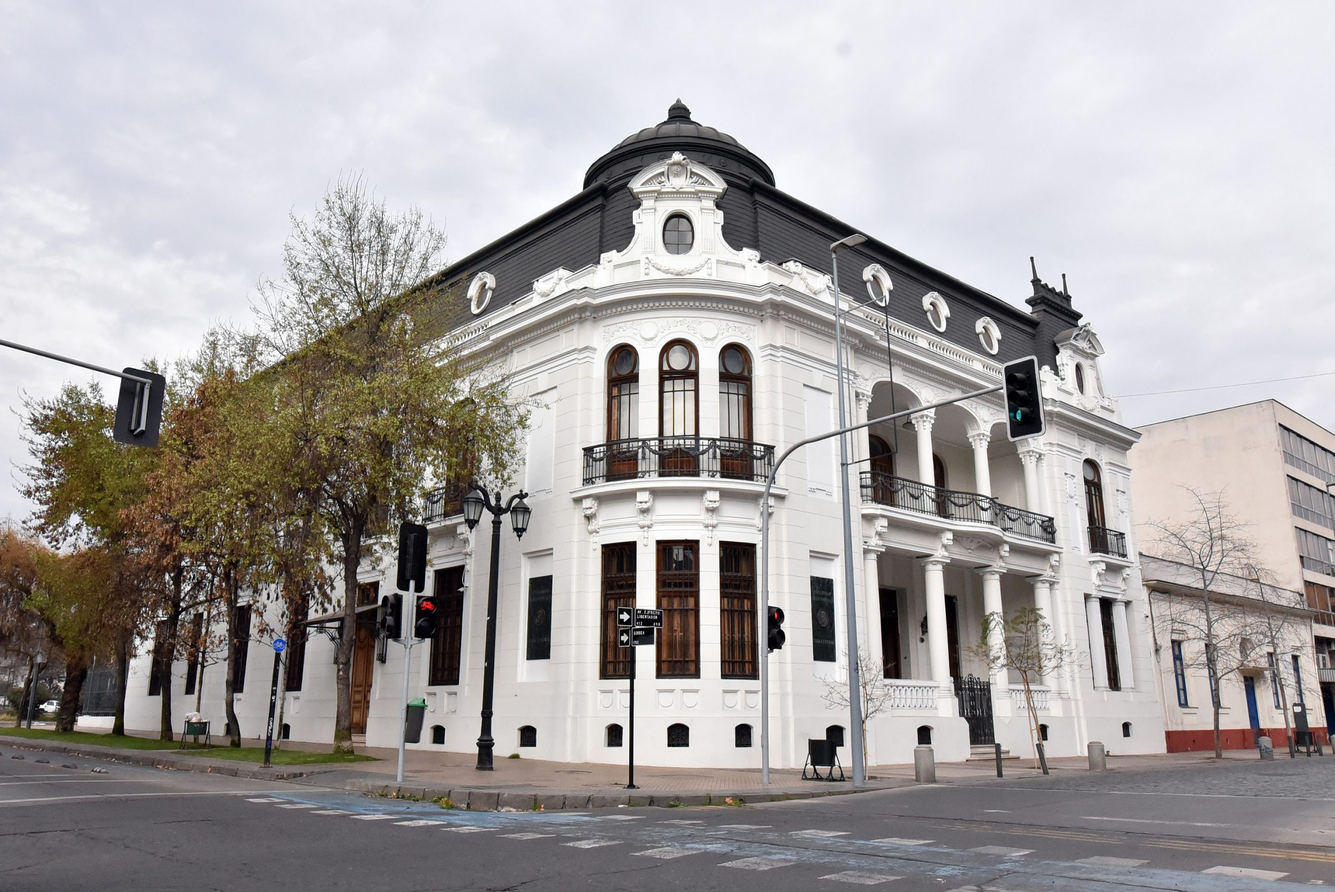
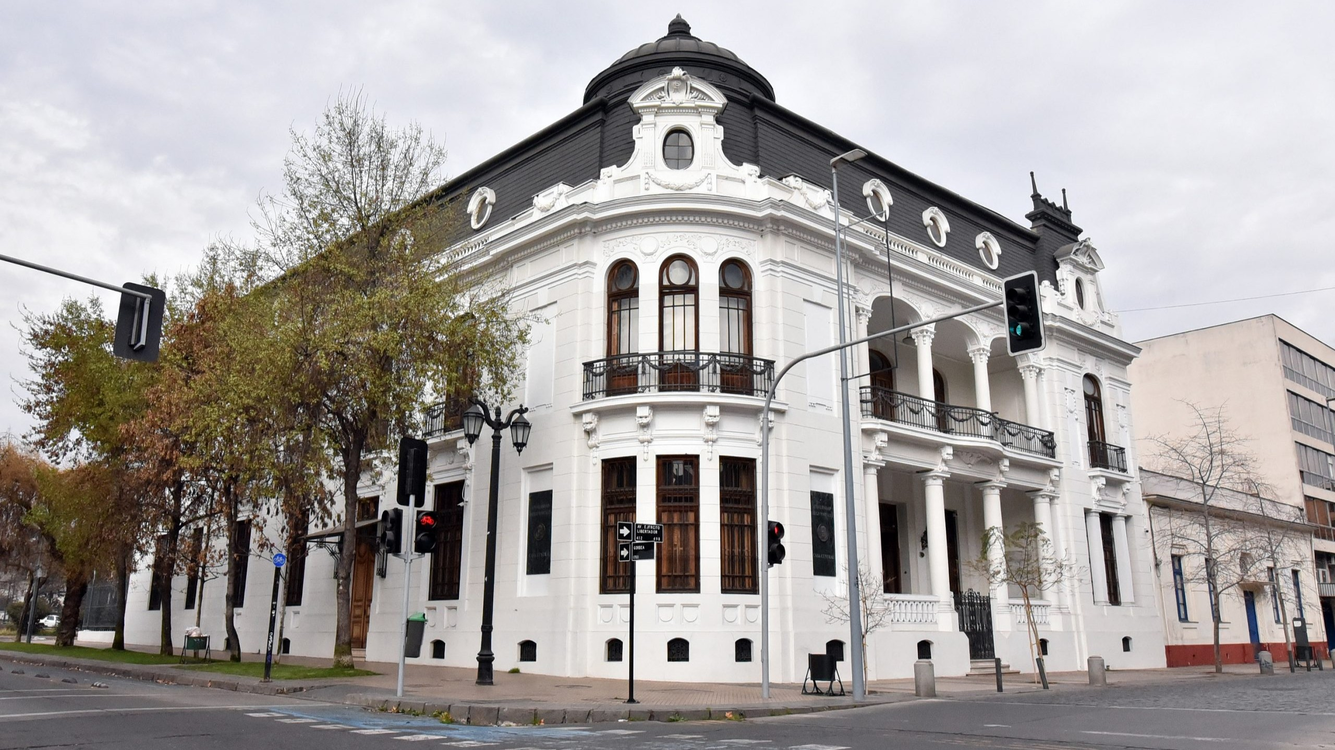
Add all UDP campus images as section dividers in 16:9 format
- Updated all images to 16:9 aspect ratio
- Added escaleras-biblioteca.jpg between Registration and Programme
- Added facultad-sociales.jpg between Programme and Venue
- Now all 5 section transitions have image dividers:
  1. biblioteca-udp (About → Theme)
  2. udp-casacentral (Theme → Call for Papers)
  3. udp-derecho (Call for Papers → Registration)
  4. escaleras-biblioteca (Registration → Programme)
  5. facultad-sociales (Programme → Venue)

🤖 Generated with [Claude Code](https://claude.com/claude-code)

diff --git a/index.html b/index.html
@@ -918,6 +918,10 @@
             </div>
         </section>
 
+        <div class="section-divider">
+            <img src="escaleras-biblioteca.jpg" alt="Escaleras Biblioteca UDP">
+        </div>
+
         <section id="programme">
             <h2 class="translate" data-en="Programme" data-es="Programa">Programme</h2>
 
@@ -935,6 +939,10 @@
                 <span class="lang-es">El horario completo y los detalles de las sesiones se anunciarán con el programa preliminar en abril de 2026.</span>
             </div>
         </section>
+
+        <div class="section-divider">
+            <img src="facultad-sociales.jpg" alt="Facultad de Ciencias Sociales UDP">
+        </div>
 
         <section id="venue" class="with-bg">
             <div class="container">
